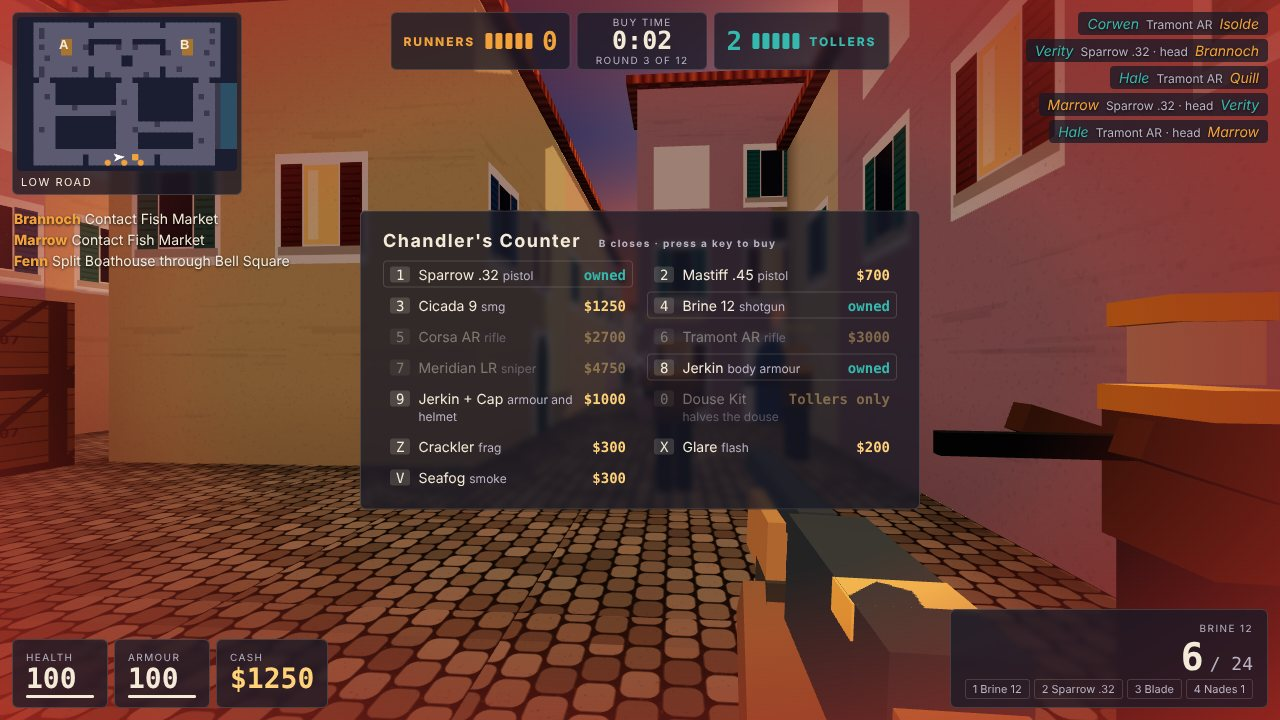
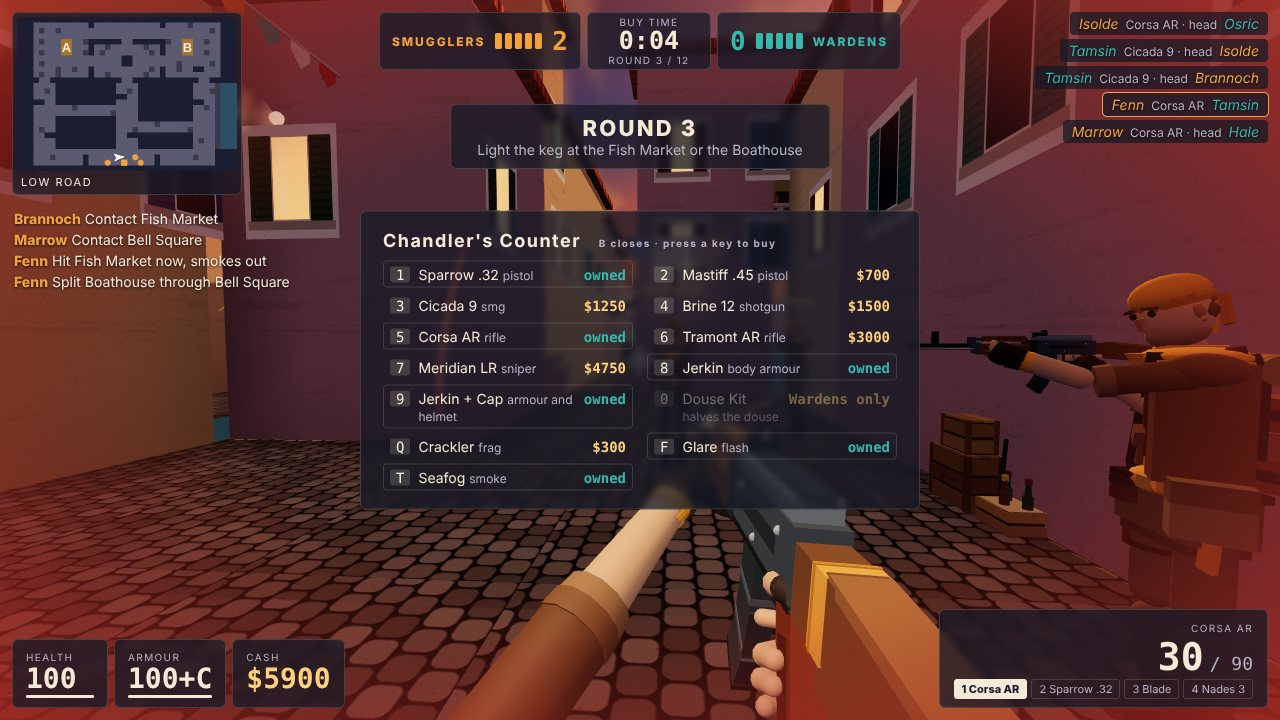
Retake the four screenshots on v2: a firefight in the Fish Market, the Chandler's Counter, the keg lit on site A, over the shoulder on the quay; move the counter's grenade keys to Q, F and T so Z, X and V still call the radio and turn the camera; on the phone page keep the buttons visible while scop
Claude-Session: https://claude.ai/code/session_01DTLq42iNTpr8qeBWGCNsfS

diff --git a/mobile/touch.js b/mobile/touch.js
@@ -23,6 +23,7 @@ const style = document.createElement('style');
 style.textContent = `
   #touch { position: fixed; inset: 0; z-index: 1; touch-action: none; user-select: none; -webkit-user-select: none; }
   #hud { z-index: 2; } /* the HUD lets touches through, except its panels: the buy counter's rows stay tappable */
+  #scope { background: radial-gradient(circle at center, transparent 0 42vh, rgba(5, 6, 12, 0.55) 46vh); } /* the buttons stay visible while scoped */
   #touch .pad { position: absolute; left: 40px; bottom: 150px; width: 190px; height: 190px; border-radius: 50%; border: 2px solid rgba(244,234,216,.35); background: rgba(22,24,38,.3); }
   #touch .nub { position: absolute; left: 60px; top: 60px; width: 70px; height: 70px; border-radius: 50%; background: rgba(244,234,216,.55); }
   #touch button { position: absolute; font: 800 15px 'Trebuchet MS', sans-serif; letter-spacing: .06em; color: #f4ead8; background: rgba(22,24,38,.62); border: 2px solid rgba(244,234,216,.4); border-radius: 12px; min-width: 76px; height: 60px; padding: 0 10px; }
@@ -55,7 +56,7 @@ const hold = (code) => [() => key('keydown', code), () => key('keyup', code)];
 
 button('FIRE', '', () => mouse('mousedown', 0), () => mouse('mouseup', 0));
 root.lastChild.className = 'fire';
-button('SCOPE', 'right:200px;bottom:150px', () => mouse('mousedown', 2), () => mouse('mouseup', 2));
+button('SCOPE', 'right:200px;bottom:150px', () => mouse('mousedown', 2), () => setTimeout(() => mouse('mouseup', 2), 60)); // held long enough for a slow frame to see it
 button('RELOAD', 'right:200px;bottom:225px', ...hold('KeyR'));
 button('JUMP', 'right:60px;bottom:330px', () => tapKey('Space', ' '));
 button('CROUCH', 'right:150px;bottom:330px', ...hold('KeyC'), 'toggle');

diff --git a/game/src/config.js b/game/src/config.js
@@ -52,7 +52,7 @@ export const GEAR = {
   kit: { name: 'Douse Kit', hint: 'halves the douse', price: 400 },
 };
 
-// The buy menu's rows, in order; keys 1-9, 0, Z, X and V pick them.
+// The buy menu's rows, in order; keys 1-9, 0, Q, F and T pick them.
 export const SHOP = ['sparrow', 'mastiff', 'cicada', 'brine', 'corsa', 'tramont', 'meridian', 'jerkin', 'cap', 'kit', 'crackler', 'glare', 'seafog'];
 
 // A side is a job and a uniform: Smugglers attack with the keg, Wardens defend the sites. The two crews swap

diff --git a/game/src/ui/panels.js b/game/src/ui/panels.js
@@ -3,7 +3,7 @@ import { GEAR, NADES, SHOP, SIDES, WEAPONS } from '../config.js';
 import { sideOfTeam } from '../sim/state.js';
 import { owns, priceOf, shopOpen } from '../sim/economy.js';
 
-export const SHOP_KEYS = [...'1234567890zxv'];
+export const SHOP_KEYS = [...'1234567890qft']; // not Z, X or V: those call the radio and turn the camera
 const describe = (id) => WEAPONS[id] || GEAR[id] || NADES.find((n) => n.id === id);
 
 export function createShop(el) {

diff --git a/README.md b/README.md
@@ -6,7 +6,12 @@
 
 CAMPANILE is a 5v5 round-based tactical first-person shooter on three.js, set in a pastel harbour town at dusk. The Smugglers carry a powder keg to the Fish Market or the Boathouse and light it; the Wardens hold both sites and douse the fuse, and the two crews swap sides at half-time. Money between rounds buys rifles, armour and grenades, standing still shoots straight, and the bots run plays, rotate and call their contacts on the radio, read out in the browser's own voice.
 
-![A firefight in the Fish Market](screenshots/1-firefight.jpg)
+![A firefight in the Fish Market at dusk](screenshots/1-firefight.jpg)
+
+| | |
+| --- | --- |
+| ![The Chandler's Counter at the start of a round](screenshots/2-buy-counter.jpg) | ![The keg lit on the Fish Market](screenshots/3-keg-lit.jpg) |
+| ![Over the shoulder on the quay at sunset](screenshots/4-quay.jpg) | |
 
 ## Run it
 
